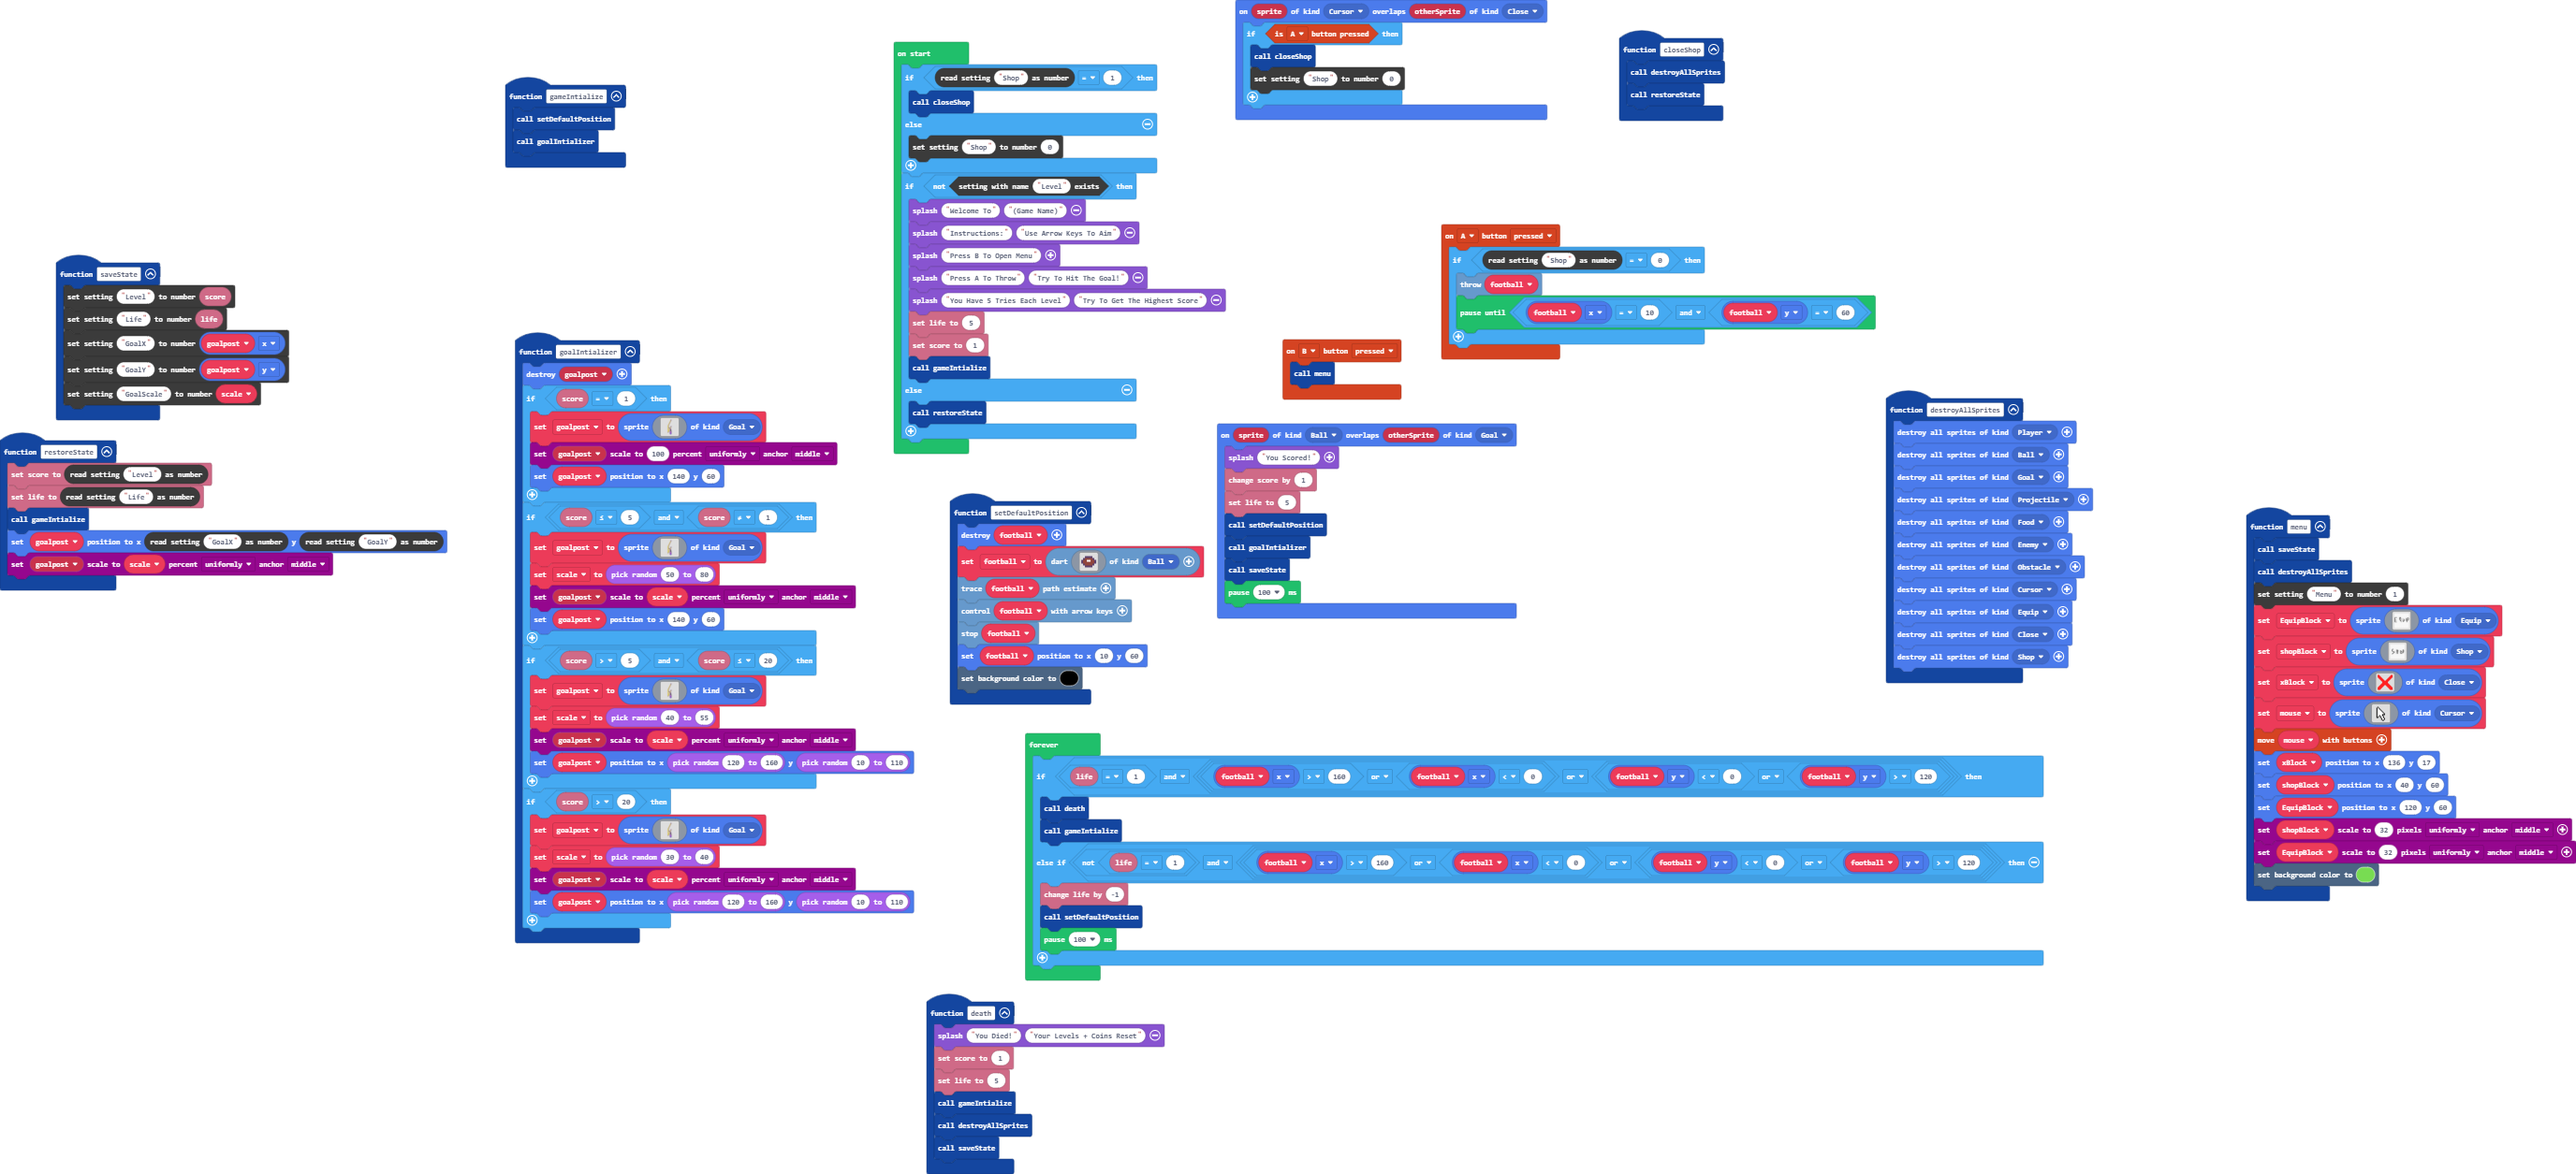
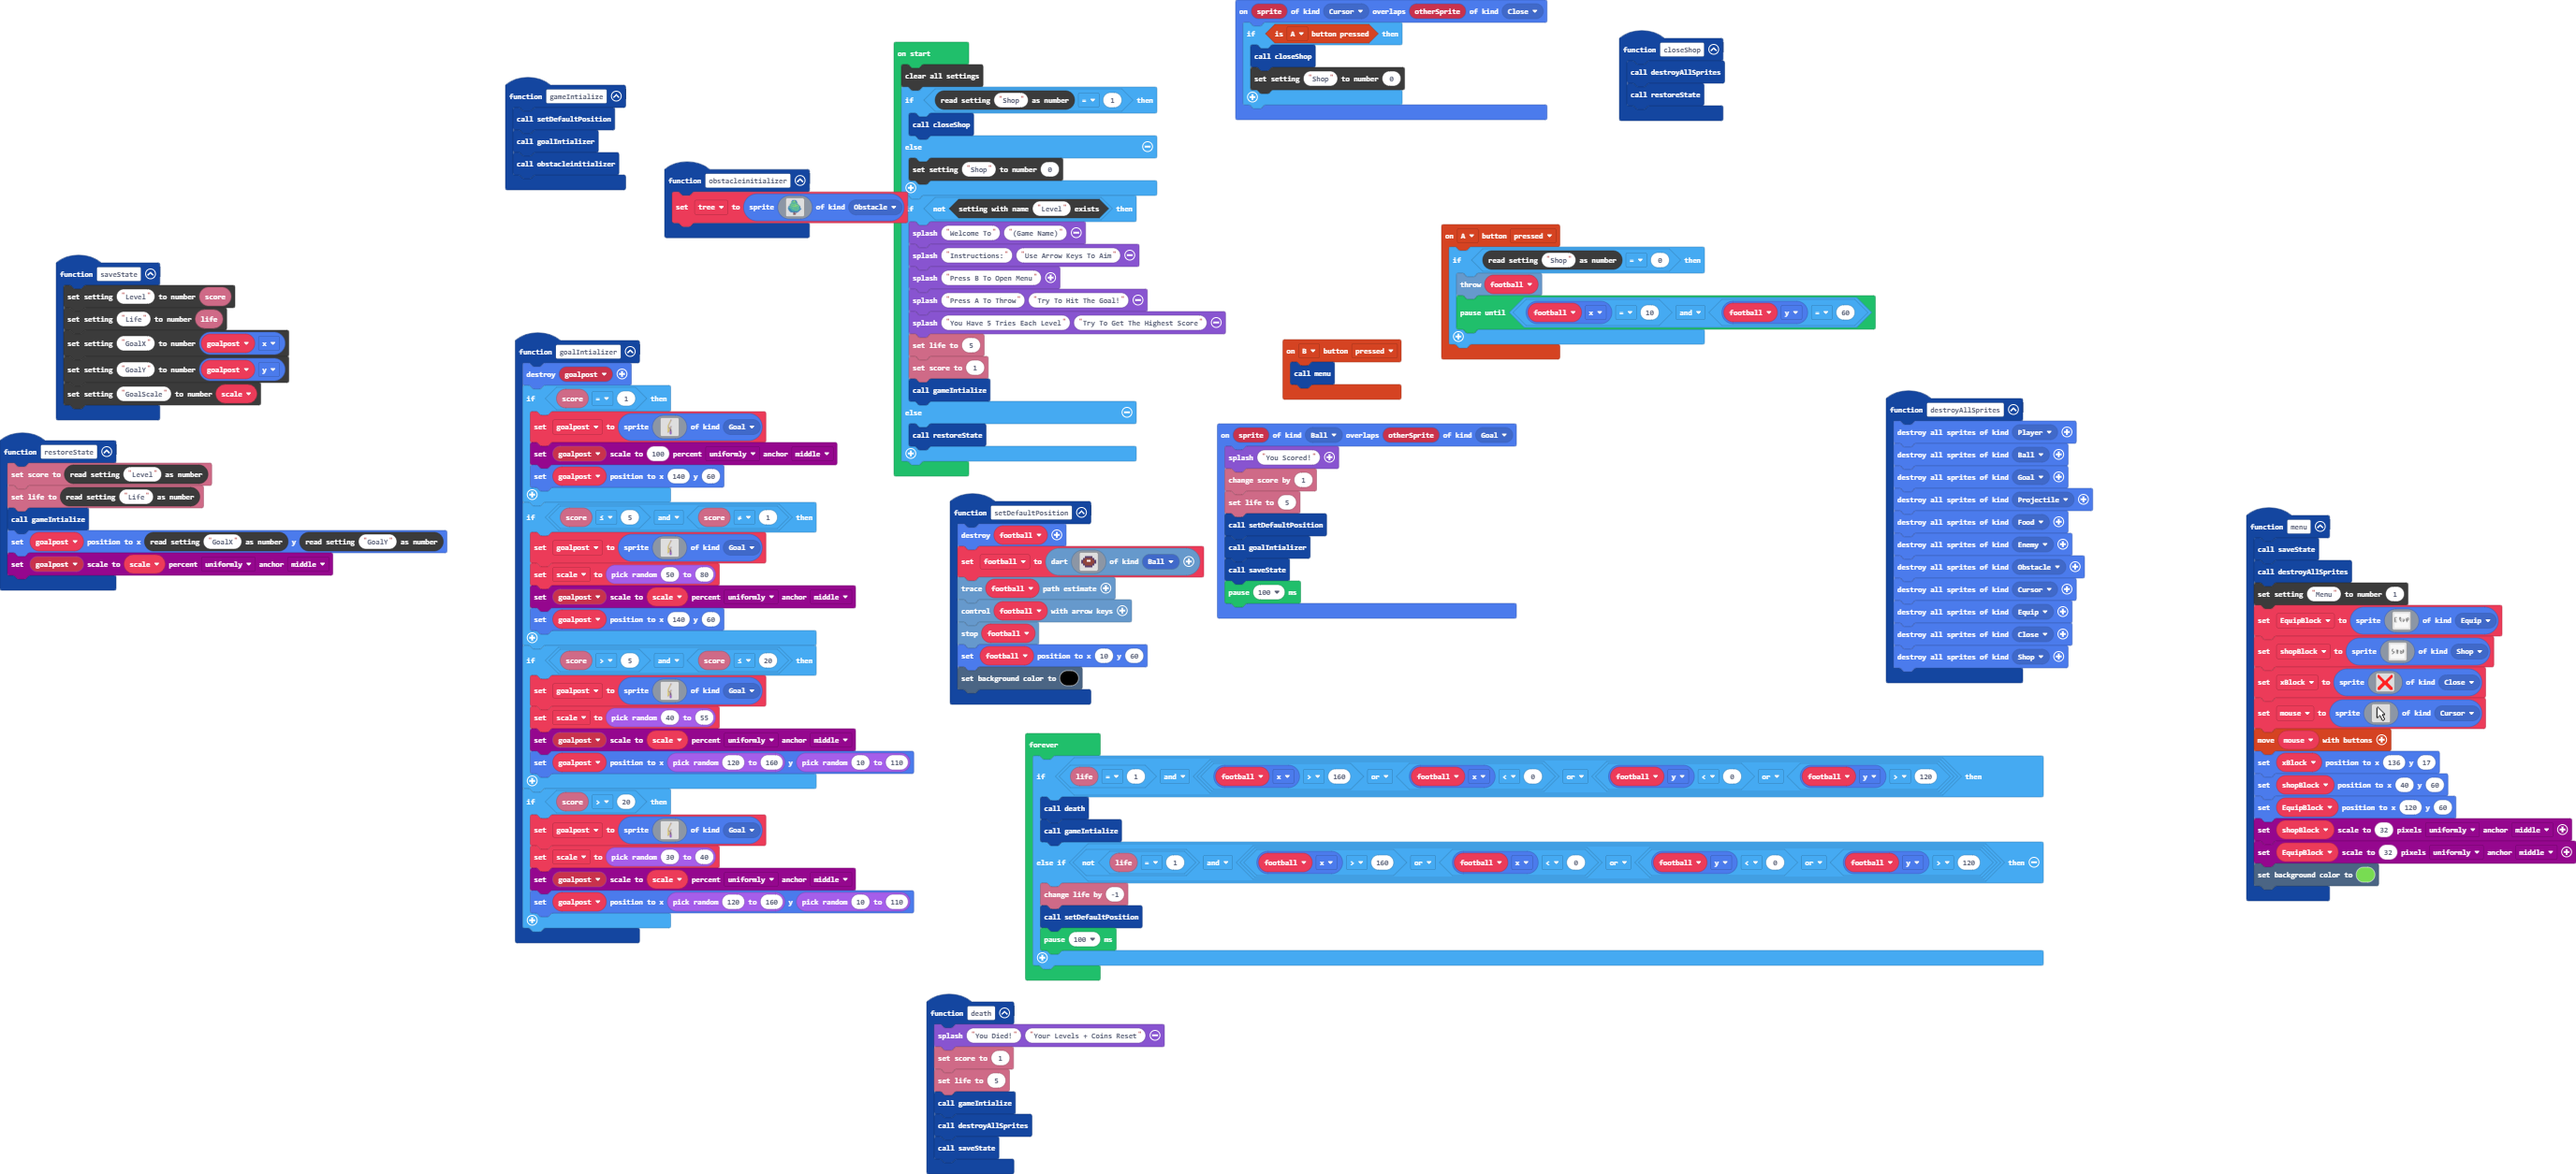
Update main.blocks, main.ts

Changed region(s): [[0.1875, 0.0311, 0.5, 0.404]]

diff --git a/main.ts b/main.ts
@@ -359,9 +359,55 @@ function saveState () {
     blockSettings.writeNumber("GoalY", goalpost.y)
     blockSettings.writeNumber("GoalScale", scale)
 }
+function obstacleinitializer () {
+    tree = sprites.create(img`
+        ................86..................
+        ...........6688867886...............
+        ...........8666877688868............
+        ............868777767768............
+        .........688667777776688............
+        ........67767777777778666...........
+        .........6776667767666868...........
+        ..........866667667677688...........
+        .........8666666666667778...........
+        ........667766666666666676..........
+        .......67766667666776667776.........
+        ......886667776676777666688.........
+        .....67766777667767777666768........
+        ....6776666666777667776666776.......
+        .....8667776667766676677776776......
+        ......8777666666667776777776688.....
+        ....6887766776677677777777776776....
+        ..8866666677767777777777766666778...
+        .86666666777667767777766666776668...
+        ..88677666666777677677666667776668..
+        ..86776677666666666666667776666668..
+        886666677766667666666776677766668...
+        6668666676667766767767766677666668..
+        88866666666777677677667666666776668.
+        .86668866666766776776666667766666668
+        .86688666666666776666667667776666688
+        .668866666666666666666677666666688..
+        ..8866686666666666677667776666668...
+        ...866886666666666677667776666668...
+        ...86886668666666667666666666888....
+        ....88866886686666666666666668......
+        ......86886668666866668666868.......
+        ......88866688668866688866888.......
+        ........8888888688888ce868..........
+        ..............e88e88.ec.8...........
+        ...............eeee..e..............
+        ...............ceef.ce..............
+        ...............ceefcec..............
+        ...............feefce...............
+        ...............fceeec...............
+        ...............ffceec...............
+        `, SpriteKind.Obstacle)
+}
 function gameIntialize () {
     setDefaultPosition()
     goalIntializer()
+    obstacleinitializer()
 }
 sprites.onOverlap(SpriteKind.Ball, SpriteKind.Goal, function (sprite, otherSprite) {
     game.splash("You Scored!")
@@ -385,6 +431,7 @@ function destroyAllSprites () {
     sprites.destroyAllSpritesOfKind(SpriteKind.Close)
     sprites.destroyAllSpritesOfKind(SpriteKind.Shop)
 }
+let tree: Sprite = null
 let football: Dart = null
 let mouse: Sprite = null
 let xBlock: Sprite = null
